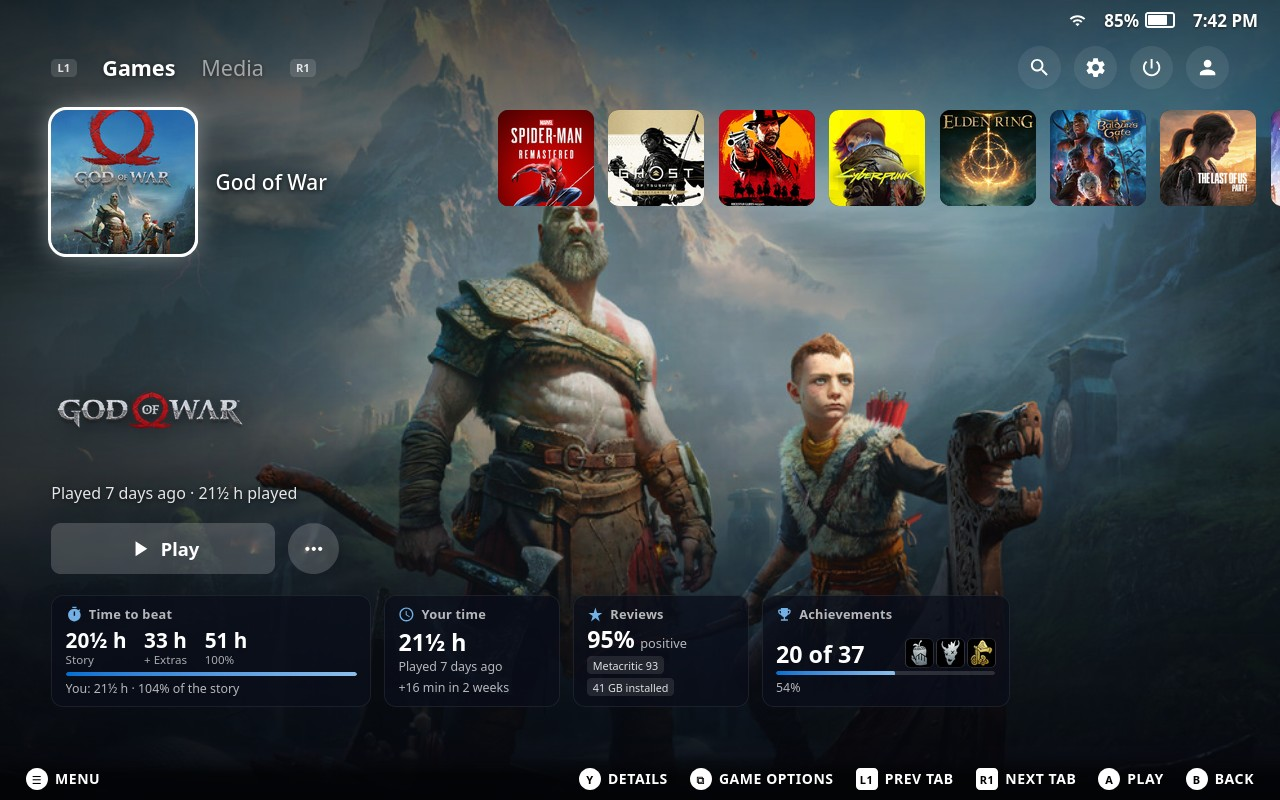
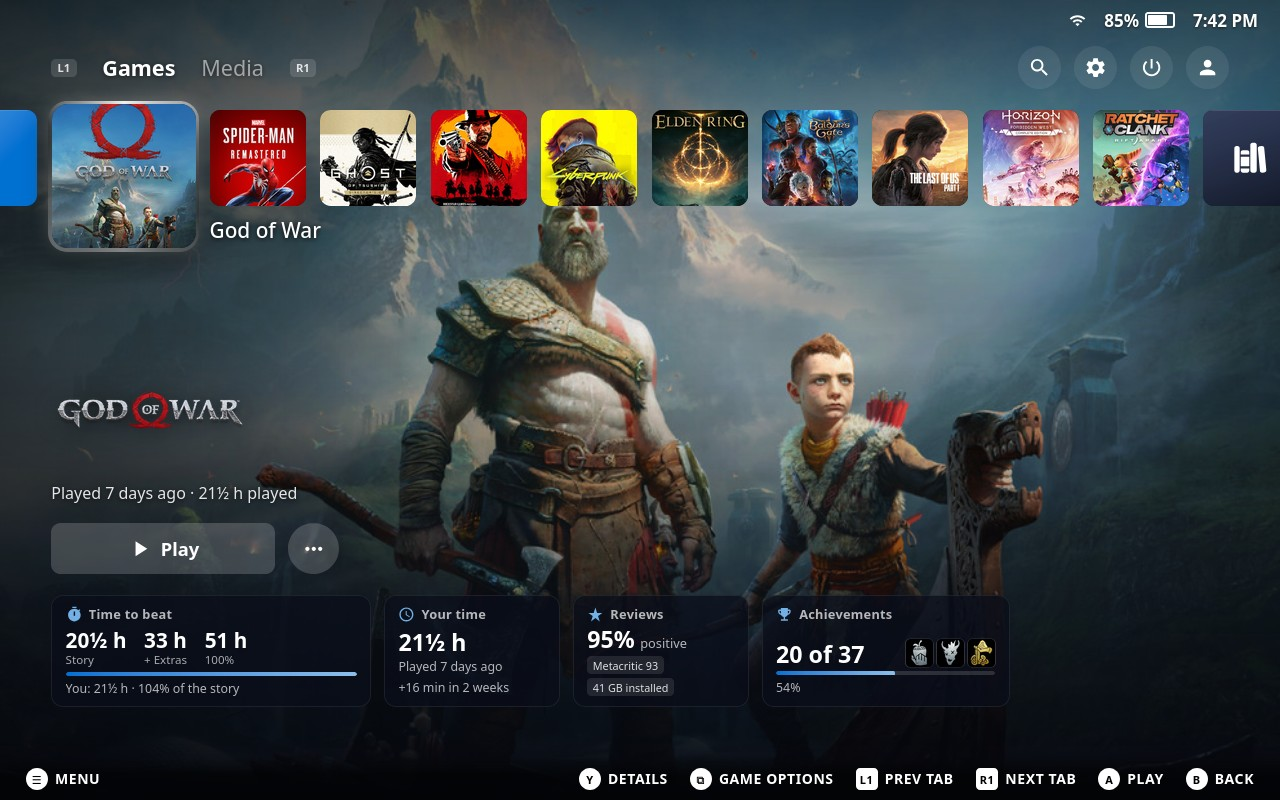
PS5 Dashboard 1.4.0: PS5-style home row with lift and glass aura
The next games now sit right after the selected one, with the game's name
under them, and the tile before it peeks in at the left edge. The focused game
lifts with a drop shadow and a glass light band circles its edge; the band only
rotates (a GPU transform) and exists only on the focused tile.

Changed region(s): [[0.0, 0.125, 1.0, 0.3438]]

diff --git a/src/styles.ts b/src/styles.ts
@@ -100,12 +100,12 @@ export const PS5_CSS = `
  * the page being laid out again:
  *  - the row slides by whole slots (set from JS) so the selected game sits at the left edge;
  *  - tiles keep a small fixed slot; the selected one scales its art box up to full size;
- *  - tiles after it shift right to make room for the big tile and its name;
- *  - tiles before it fade out instead of peeking in at the edge.
+ *  - tiles after it shift right just enough for the big tile, and its name sits under them;
+ *  - the tile right before it peeks in at the left edge; earlier ones fade out.
  * The section clips (overflow: clip can't be scrolled, so focus can't push the row away).
  */
 .psd-home-row {
-  --psd-slot: 12vh; --psd-big: 18vh; --psd-gap: 1.8vh; --psd-name: 36vh;
+  --psd-slot: 12vh; --psd-big: 18vh; --psd-gap: 1.8vh;
   margin-top: 0; padding: 3vh 0 3.6vh; overflow: hidden; overflow: clip;
   animation: psd-intro 600ms cubic-bezier(0.2, 0.8, 0.2, 1) backwards;
 }
@@ -246,21 +246,47 @@ export const PS5_CSS = `
   transform: scale(0.6667); transform-origin: 0 0;
   transition: transform 340ms cubic-bezier(0.22, 0.8, 0.24, 1);
 }
-.psd-tile-home.psd-focused .psd-tile-box, .psd-tile-home.psd-selected .psd-tile-box { transform: none; }
+.psd-tile-home.psd-selected .psd-tile-box { transform: none; }
+/* Focused: the tile lifts a little, like the PS5. */
+.psd-tile-home.psd-focused .psd-tile-box { transform: translate3d(0, -0.7vh, 0); }
 .psd-tile-home.psd-selected ~ .psd-tile-home {
-  transform: translate3d(calc(var(--psd-big) - var(--psd-slot) + var(--psd-name)), 0, 0);
+  transform: translate3d(calc(var(--psd-big) - var(--psd-slot)), 0, 0);
 }
-.psd-tile-home:has(~ .psd-selected) { opacity: 0; }
+.psd-tile-home:has(~ .psd-selected):not(:has(+ .psd-selected)) { opacity: 0; }
+/* Soft glow and a drop shadow; the edge itself is the aura below. */
+.psd-tile-home .psd-tile-ring {
+  box-shadow: 0 0 2.6vh color-mix(in srgb, var(--f) 30%, transparent), 0 1.6vh 3.2vh rgba(0,0,0,0.55);
+}
+/*
+ * The PS5 glass aura: a light band that keeps circling the focused tile's edge. A conic gradient
+ * sits behind the art, a hair bigger than it, and only rotates: a transform the GPU runs on its
+ * own, with nothing repainted per frame. It exists only on the focused tile.
+ */
+.psd-tile-aura {
+  position: absolute; inset: -0.45vh; border-radius: calc(var(--r) * 1.3 + 0.45vh);
+  overflow: hidden; opacity: 0; transition: opacity 200ms ease;
+}
+.psd-tile-aura-spin {
+  position: absolute; left: -50%; top: -50%; width: 200%; height: 200%;
+  background: conic-gradient(
+    var(--f), rgba(255,255,255,0.18) 18%, rgba(0,0,0,0.35) 32%, color-mix(in srgb, var(--f) 75%, transparent) 50%,
+    rgba(255,255,255,0.22) 68%, rgba(0,0,0,0.3) 84%, var(--f)
+  );
+}
+.psd-tile-home.psd-focused .psd-tile-aura { opacity: 1; }
+.psd-tile-home.psd-focused .psd-tile-aura-spin { animation: psd-spin 3.2s linear infinite; }
+@keyframes psd-spin { to { transform: rotate(1turn); } }
+/* The name goes under the next tiles, like the PS5. */
 .psd-tile-home .psd-tile-name {
-  left: calc(var(--psd-big) + 2.6vh); right: auto; bottom: auto; top: calc(var(--psd-big) / 2);
-  width: calc(var(--psd-name) - 4.4vh); padding: 0; background: none; border-radius: 0;
-  font-size: 2.6vh; font-weight: 500; line-height: 1.25; white-space: normal;
-  display: -webkit-box; -webkit-line-clamp: 2; -webkit-box-orient: vertical;
+  left: calc(var(--psd-big) + var(--psd-gap)); right: auto; bottom: auto; top: calc(var(--psd-slot) + 1.4vh);
+  width: max-content; max-width: 60vh; padding: 0; background: none; border-radius: 0;
+  font-size: 2.6vh; font-weight: 500; line-height: 1.25;
+  white-space: nowrap; overflow: hidden; text-overflow: ellipsis;
   text-shadow: 0 1px 6px rgba(0,0,0,0.85);
-  transform: translate3d(-1.5vh, -50%, 0); transition: opacity 200ms ease, transform 260ms ease;
+  transform: translate3d(0, -0.8vh, 0); transition: opacity 200ms ease, transform 260ms ease;
 }
 .psd-tile-home.psd-selected .psd-tile-name, .psd-tile-home.psd-focused .psd-tile-name {
-  opacity: 1; transform: translate3d(0, -50%, 0);
+  opacity: 1; transform: none;
 }
 
 .psd-not-installed .psd-cover { opacity: 0.55; }

diff --git a/src/components.tsx b/src/components.tsx
@@ -123,6 +123,11 @@ export function Tile(p: TileProps) {
       actionDescriptionMap={p.onMenu ? { [GamepadButton.SELECT]: t.gameMenu } : undefined}
     >
       <div className="psd-tile-box">
+        {p.size === "home" && (
+          <div className="psd-tile-aura">
+            <div className="psd-tile-aura-spin" />
+          </div>
+        )}
         <div className="psd-tile-art">{p.children}</div>
         <div className="psd-tile-ring" />
         {p.badge}

diff --git a/CHANGELOG.md b/CHANGELOG.md
@@ -1,5 +1,13 @@
 # Changelog
 
+## 1.4.0
+
+- **Home row like the PS5.** The next games now sit right after the selected one instead of leaving a wide gap, and
+  the game's name moves under them. The tile before the selected one peeks in at the left edge.
+- **Lift and glass aura.** The focused game lifts slightly with a drop shadow, and a glass light band keeps circling
+  its edge, blending white, grey and translucent black. It only rotates (a GPU transform), so it costs nothing per
+  frame, and only the focused tile has it.
+
 ## 1.3.0
 
 - **Game options on Select.** Press Select (View) or ≡ on any game tile, on Home, in the lower rows or in the Game
